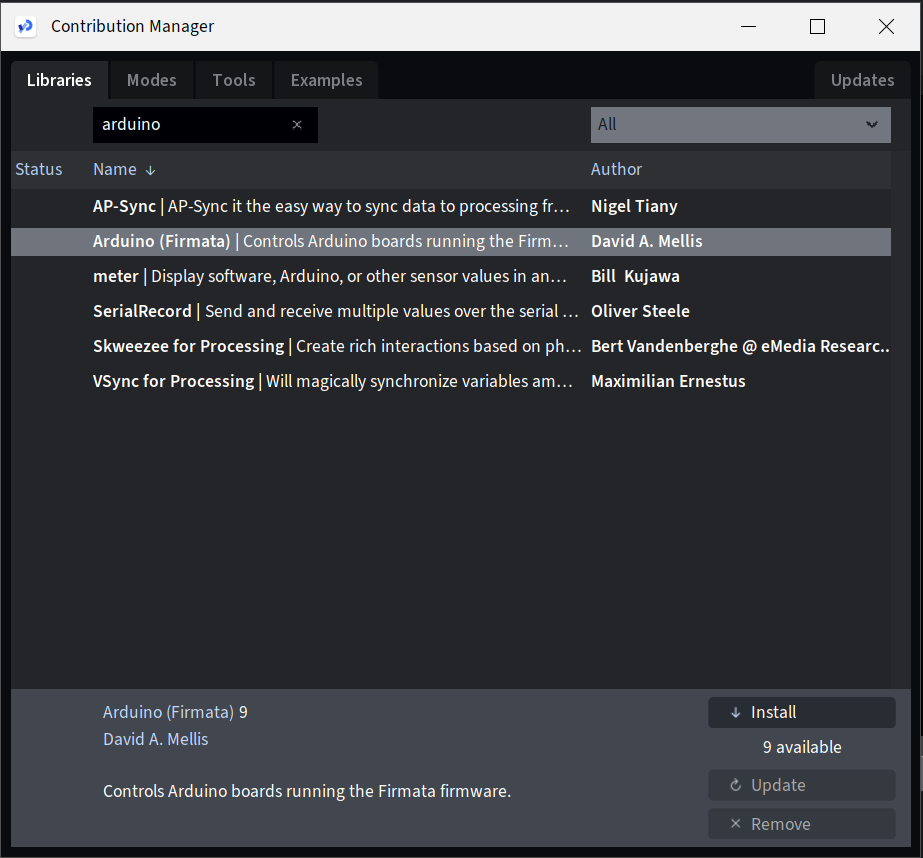
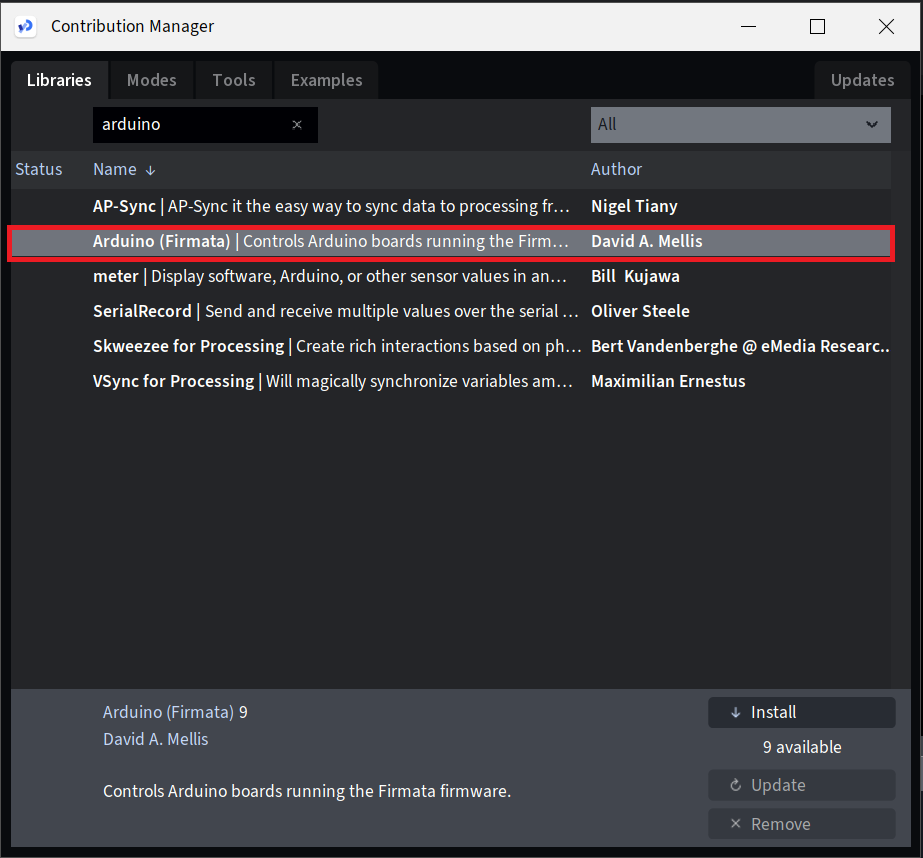
Finished interface programming

Changed region(s): [[0.0, 0.2424, 0.9707, 0.303]]

diff --git a/EP1001/Interface&applicationsprogramming.html b/EP1001/Interface&applicationsprogramming.html
@@ -76,9 +76,11 @@
         <!--sub navbar for the page to make it easier for me to look at any feature I made-->
         <div id="navbar">
         <a href="#wut" >What is this page about.</a>
-        <a href="#f1" >First Program</a>
+        <a href="#downloading" >Downloading Processing</a>
         <a href="#lib" >Arduino Library</a>
+        <a href="#f1" >First Program</a>
         <a href="#code" >Coding</a>
+        <a href="#wire" >Wiring</a>
         <a href="#work" >Final Results</a>
         <a href="#navigation" style="color:blue; float:right;">Back to Top</a>
         </div>
@@ -87,19 +89,19 @@
   <!--What is this page about-->
   <h2 id="wut" align="center">What is this page about</h2>
   <div id="box">
-      <h4 align="center">This page would teach you to send data through a software serial. I would be using "<a href="https://processing.org/download">Processing</a>" for this example.</h4>
+      <h4 align="center">This page would teaches you how we can use 'Processing' and how we can interface it with our ATtiny412 board.<br> I would be using "<a href="https://processing.org/download">Processing</a>" for this example.</h4>
   </div>
   <!--end-->
 
-  <!--First Program-->
-  <h2 id="f1" align="center">First Program</h2>
-  <div id="box">
-      <img id="horiImg1" src="../images\Interfaceprogramming\First Program.PNG">
-      <h4 align="center">I am able to draw circles on process using simple and basic codes. This is 1 such example. Combing both "Processing" and "Arduino IDE", <br>I would be making a responsive box that would light up the LED when my mouse is over it</h4>
-  </div>
-  <!--end-->
+   <!--downloading processing-->
+   <h2 id="download" align="center">Downloading programming</h2>
+   <div id="box">
+       <img id="horiImg1" src="../images\Interfaceprogramming\processing.PNG">
+       <h4 align="center">Downloading processing is just a few click of your mouse away! Firstly, download <a href="https://processing.org/download">Processing</a> before clicking on 'processing.exe from the file downloaded.' </h4>
+   </div>
+   <!--end-->
 
-  <!--Needed library-->
+   <!--Needed library-->
   <h2 id="lib" align="center">Arduino Library</h2>
   <div id="box">
     <table>
@@ -108,7 +110,15 @@
     <th><img id="horiImg" src="../images\Interfaceprogramming\downloaded library.png"></th>
   </tr>
 </table>
-      <h4 align="center">Before writing out the code, process needs to have the arduino library installed. Install the one in the photo to the right.</h4>
+      <h4 align="center">Before writing out the code, process needs to have the arduino library installed.<br> Install the one highlighted in red in the photo to the right.</h4>
+  </div>
+  <!--end-->
+
+  <!--First Program-->
+  <h2 id="f1" align="center">First Program</h2>
+  <div id="box">
+      <img id="horiImg1" src="../images\Interfaceprogramming\First Program.PNG">
+      <h4 align="center">I am able to draw circles on process using simple and basic codes. This is 1 such example. Combing both "Processing" and "Arduino IDE", <br>I would be making a responsive box that would light up the LED when my mouse is over it</h4>
   </div>
   <!--end-->
 
@@ -125,11 +135,24 @@
   </div>
   <!--end-->
 
+    <!--Wiring-->
+    <h2 id="wire" align="center">Wiring</h2>
+    <div id="box">
+      <table>
+        <tr>
+          <th><img id="horiImg" src="../images\embeddedprogramming\howtoconnect.jpg"></th>
+          <th><img id="horiImg" src="../images\Interfaceprogramming\connection.jpg"></th>
+    </tr>
+  </table>
+        <h4 align="center">Unlike programming the board(photo on the left), You would only need to use the FTDI for your board to communicate with your computer.<br> Follow the connections(photo on the right) if you are using my ATtiny412 board.</h4>
+    </div>
+    <!--end-->
+
   <!--Final coding-->
   <h2 id="work" align="center">Final results</h2>
   <div id="box">
     <img id="horiImg1" src="../images\Interfaceprogramming\finished.gif">
-      <h4 align="center">If done correctly, Your final results should look like this!</h4>
+      <h4 align="center">If done correctly, Your LED should light up when your curser is over the square!</h4>
   </div>
   <!--end-->
 
